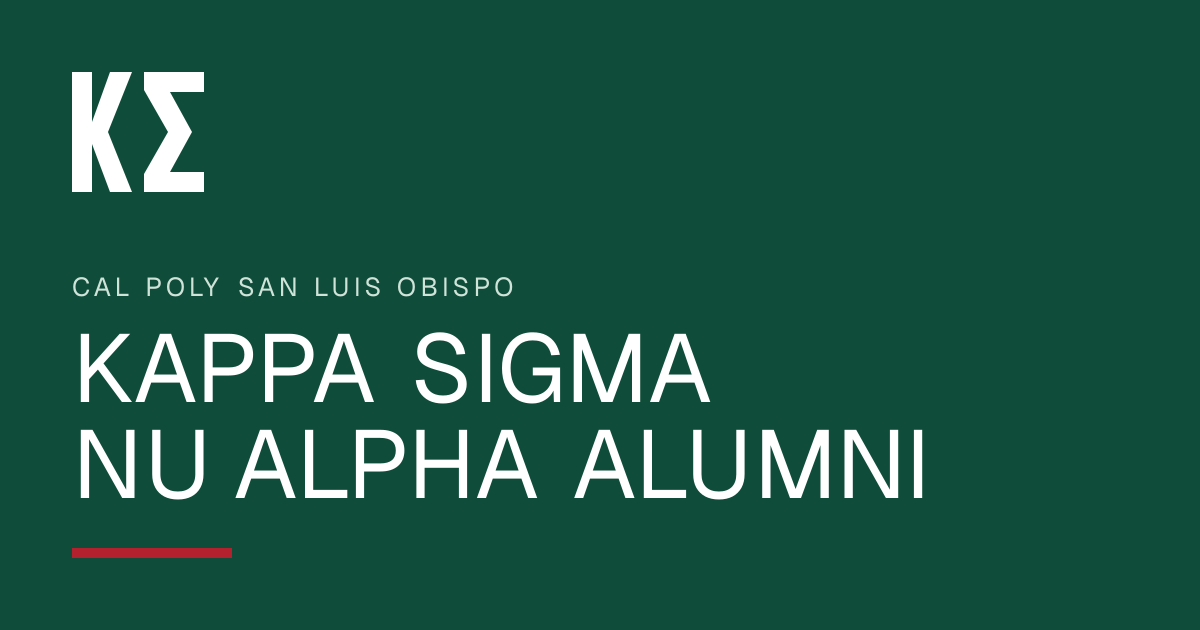
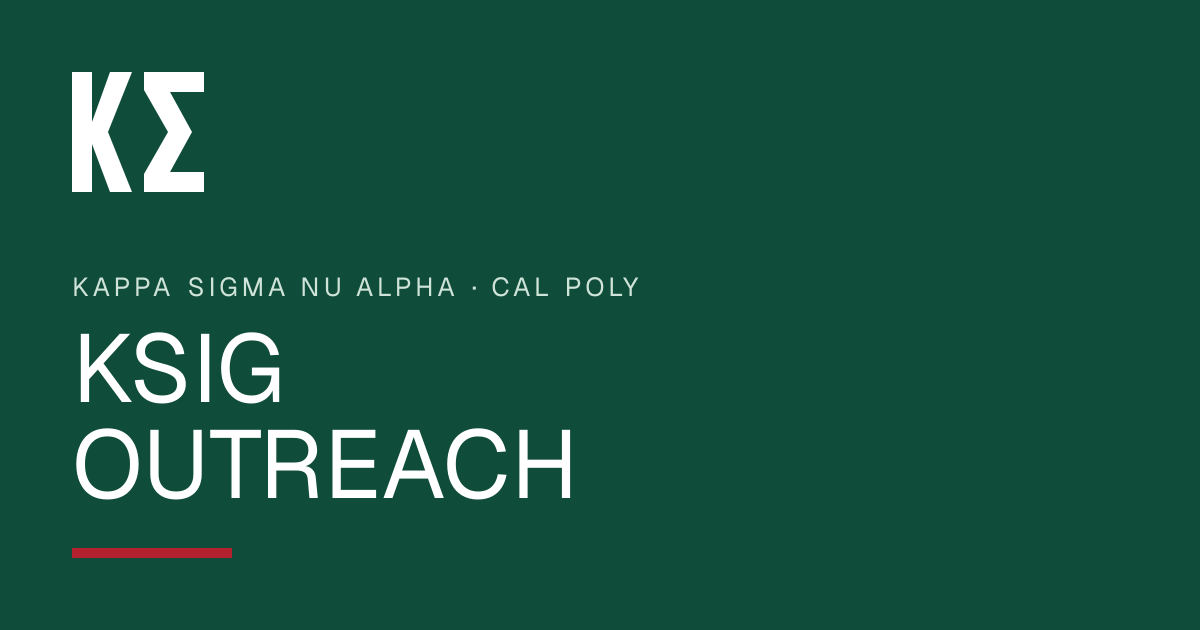
Rename the site to KSig Outreach
- Site name, page titles, link-preview name and image now read
  "KSig Outreach" instead of "Kappa Sigma Nu Alpha Alumni".
- Footer: chapter email placeholder is outreach@, LinkedIn link label
  drops "alumni".
- README, package name and path comments use the new repo name
  (KSig-Outreach) and its GitHub Pages URL.

Claude-Session: https://claude.ai/code/session_01WzUcHiyYUvaw1kbQY9oxj4

Changed region(s): [[0.0617, 0.5127, 0.7708, 0.8143], [0.0617, 0.4222, 0.5242, 0.4825]]

diff --git a/content/site.ts b/content/site.ts
@@ -80,8 +80,8 @@ export type Fund = {
 // ---------- Site-wide ----------
 
 export const site = {
-  name: "Kappa Sigma Nu Alpha Alumni",
-  shortName: "Nu Alpha Alumni",
+  name: "KSig Outreach",
+  shortName: "KSig Outreach",
   school: "Cal Poly San Luis Obispo",
   /** Used for "Chartered [YEAR]" in the hero and the stats band. */
   charterYear: "[YEAR]", // PLACEHOLDER
@@ -104,7 +104,7 @@ export const site = {
    */
   crestImage: undefined as string | undefined,
   seo: {
-    title: "Kappa Sigma Nu Alpha Alumni | Cal Poly",
+    title: "KSig Outreach | Kappa Sigma Nu Alpha at Cal Poly",
     description:
       "The Nu Alpha chapter of Kappa Sigma at Cal Poly San Luis Obispo, for brothers, alumni and families. See the chapter today, find events, and stay connected.",
   },
@@ -376,7 +376,7 @@ export const signup = {
 
 export const footer = {
   chapterName: "Nu Alpha Chapter of Kappa Sigma",
-  email: "alumni@ksignualpha.com", // PLACEHOLDER
+  email: "outreach@ksignualpha.com", // PLACEHOLDER
   instagramUrl: "https://instagram.com/", // PLACEHOLDER
   instagramHandle: "@[handle]", // PLACEHOLDER
   linkedinUrl: "https://www.linkedin.com/groups/", // PLACEHOLDER

diff --git a/app/events/page.tsx b/app/events/page.tsx
@@ -5,7 +5,7 @@ import { pageMetadata } from "@/lib/page-metadata";
 
 export const metadata: Metadata = pageMetadata(
   "Alumni events",
-  "Upcoming Kappa Sigma Nu Alpha alumni events, with dates, locations and RSVP links.",
+  "Upcoming Kappa Sigma Nu Alpha events for alumni and families, with dates, locations and RSVP links.",
 );
 
 export default function Page() {

diff --git a/components/Footer.tsx b/components/Footer.tsx
@@ -29,7 +29,7 @@ export default function Footer() {
           </li>
           <li>
             <a href={footer.linkedinUrl} className={linkClass} target="_blank" rel="noopener noreferrer">
-              <LinkedInIcon /> LinkedIn alumni group
+              <LinkedInIcon /> LinkedIn group
             </a>
           </li>
         </ul>

diff --git a/lib/paths.ts b/lib/paths.ts
@@ -1,4 +1,4 @@
-/** "/KSig-Nu-Alpha-Alumni" on GitHub Pages, "" locally or on a custom domain. */
+/** "/KSig-Outreach" on GitHub Pages, "" locally or on a custom domain. */
 export const basePath = process.env.NEXT_PUBLIC_BASE_PATH || "";
 
 /** Turns "/images/photo.jpg" into a path that works wherever the site is hosted. */

diff --git a/README.md b/README.md
@@ -1,4 +1,4 @@
-# Kappa Sigma Nu Alpha Alumni
+# KSig Outreach
 
 The outreach website for the Nu Alpha chapter of Kappa Sigma at Cal Poly San Luis Obispo, for alumni **and** parents & families.
 
@@ -9,7 +9,7 @@ It does four things:
 3. **Drives donations and event attendance**: a campaign section (with a fund picker) links to an outside donation page, and an events list shows upcoming events with RSVP links, filterable by Alumni / Families.
 4. **Welcomes parents & families**: chapter stats, safety & accountability, an FAQ, a parent liaison contact, and a parent newsletter sign-up.
 
-**Live site:** https://gachow-07.github.io/KSig-Nu-Alpha-Alumni/
+**Live site:** https://gachow-07.github.io/KSig-Outreach/
 
 **Built with:** Next.js + TypeScript, Tailwind CSS, Supabase (database), GitHub Pages (hosting). All free at chapter scale.
 
@@ -141,8 +141,8 @@ Only needed to run the site on your computer. Editing on github.com needs nothin
 ### 2. Run the site on your computer
 
 ```bash
-git clone https://github.com/gachow-07/KSig-Nu-Alpha-Alumni.git
-cd KSig-Nu-Alpha-Alumni
+git clone https://github.com/gachow-07/KSig-Outreach.git
+cd KSig-Outreach
 npm install
 npm run dev
 ```
@@ -163,7 +163,7 @@ Other commands:
 
 1. Go to [supabase.com](https://supabase.com) and sign up. Use a chapter email (e.g. the alumni relations account), not a personal one, so access survives graduation.
 2. Click **New project**.
-   - **Name:** `ksig-nu-alpha-alumni`
+   - **Name:** `ksig-outreach`
    - **Database password:** click Generate, then save it in the chapter password manager. You probably won't need it again.
    - **Region:** West US (closest to SLO).
    - Plan: **Free**.
@@ -196,7 +196,7 @@ The repo has a workflow ([`.github/workflows/deploy.yml`](.github/workflows/depl
    | `SUPABASE_URL` | your Project URL |
    | `SUPABASE_PUBLISHABLE_KEY` | your publishable key |
 
-4. **Publish:** **Actions** tab → **Deploy to GitHub Pages** → **Run workflow** → **Run workflow**. In about 2 minutes the site is live at **https://gachow-07.github.io/KSig-Nu-Alpha-Alumni/**.
+4. **Publish:** **Actions** tab → **Deploy to GitHub Pages** → **Run workflow** → **Run workflow**. In about 2 minutes the site is live at **https://gachow-07.github.io/KSig-Outreach/**.
 5. **Test it:** open the link on your phone, submit the form with your own info, and check **Table Editor → alumni** in Supabase. Your row should be there. 🎉 Delete the test row when you're done.
 
 You can do steps 1, 2 and 4 before Supabase is ready. The page will look right, but the form won't save until step 3 is done and the workflow runs again.
@@ -277,7 +277,7 @@ lib/
   signup-client.ts       Sends an alumni sign-up to Supabase
   form-endpoint.ts       Sends the parent newsletter form to FORM_ENDPOINT
   dates.ts               Event date helpers (hides past events)
-  paths.ts               Makes image paths work under /KSig-Nu-Alpha-Alumni
+  paths.ts               Makes image paths work under /KSig-Outreach
 public/images/           Chapter photos
 supabase/migrations/     SQL that creates the alumni table and sign-up function
 .github/workflows/       Builds and publishes the site to GitHub Pages
